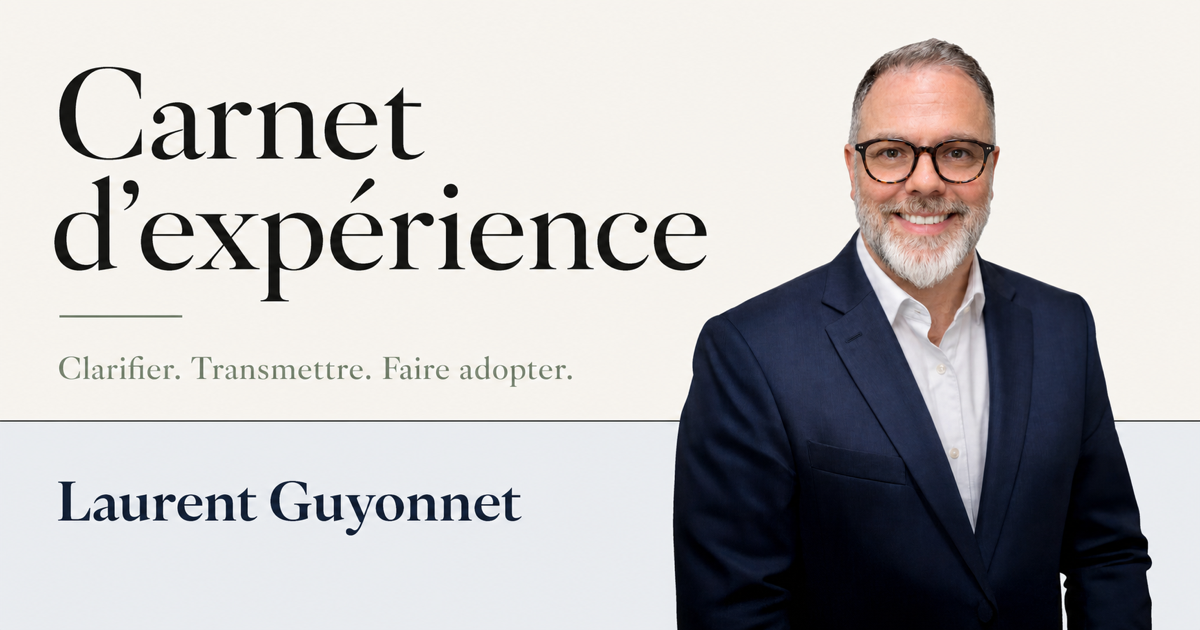
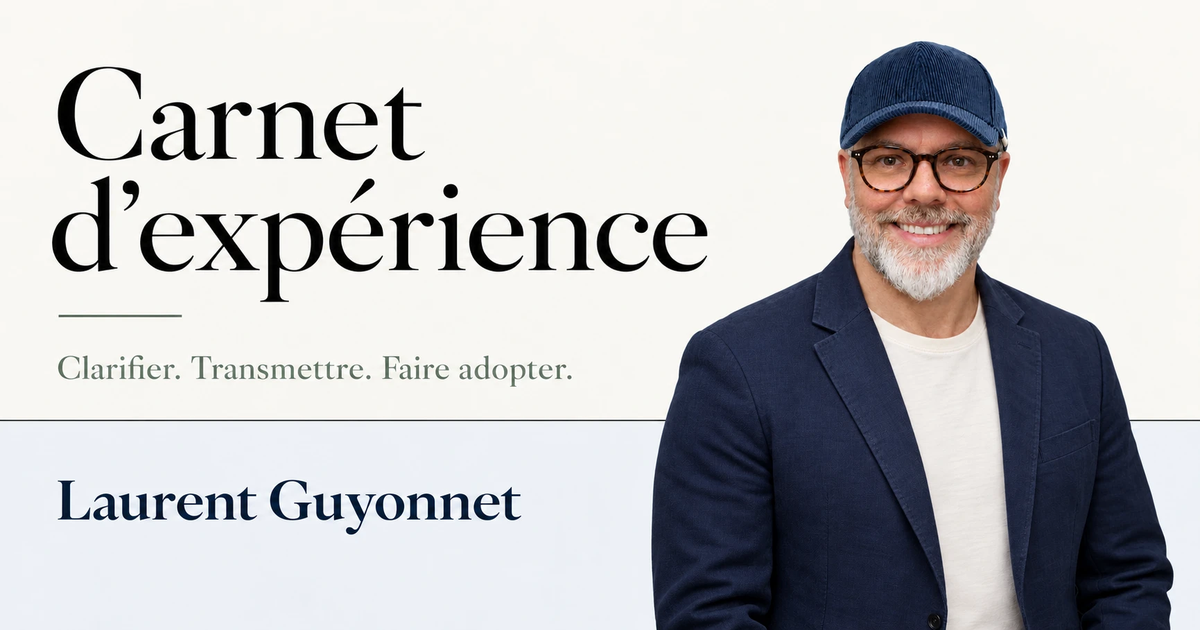
photos

diff --git a/app/(home)/page.tsx b/app/(home)/page.tsx
@@ -164,8 +164,8 @@ export default function HomePage() {
             className={styles.portrait}
             src="/images/laurent-portrait-cropped.png"
             alt="Laurent Guyonnet"
-            width={1900}
-            height={2200}
+            width={1165}
+            height={1350}
             priority
             sizes="(max-width: 900px) 90vw, 460px"
           />
